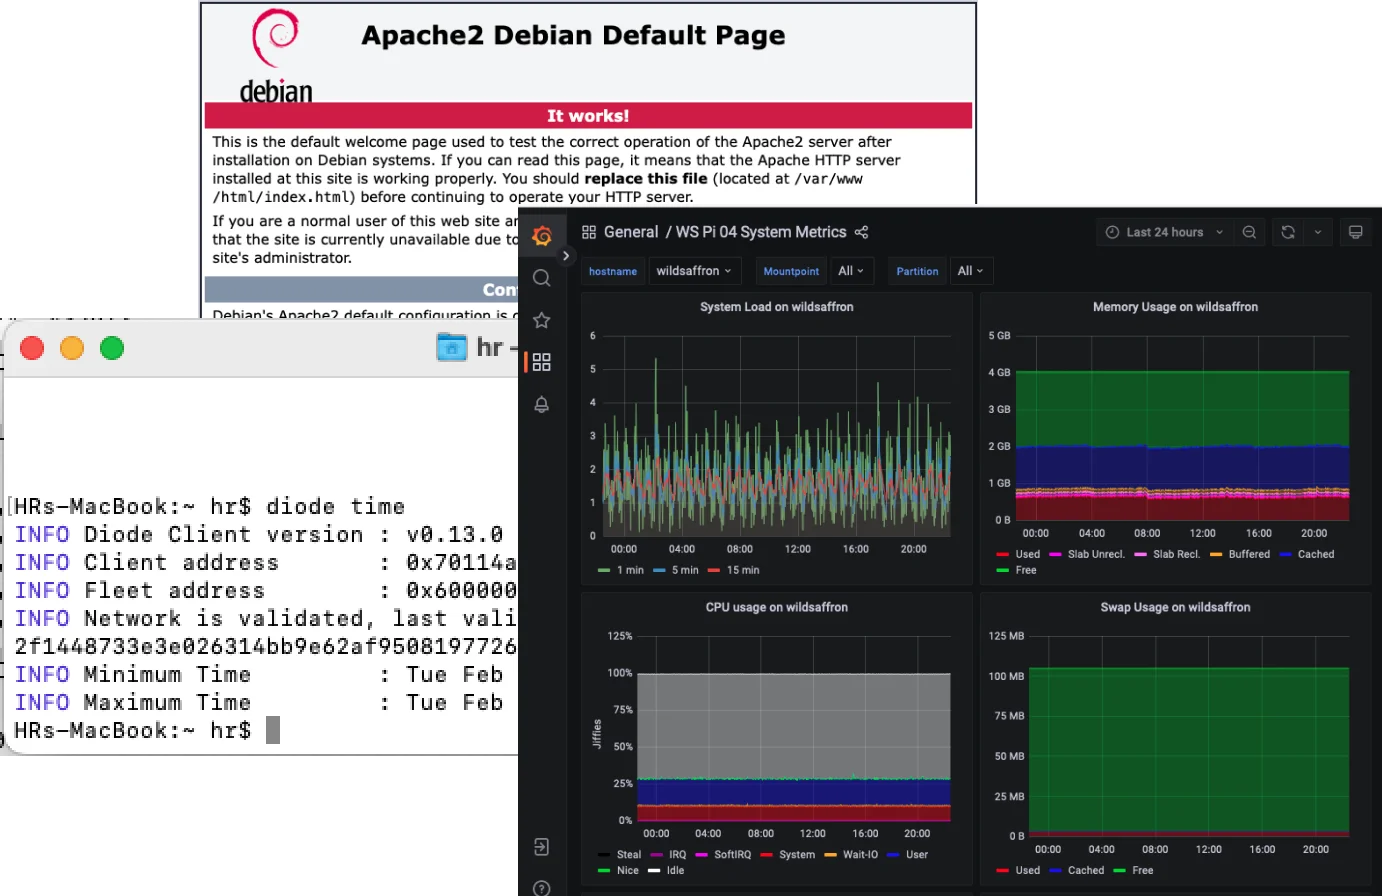
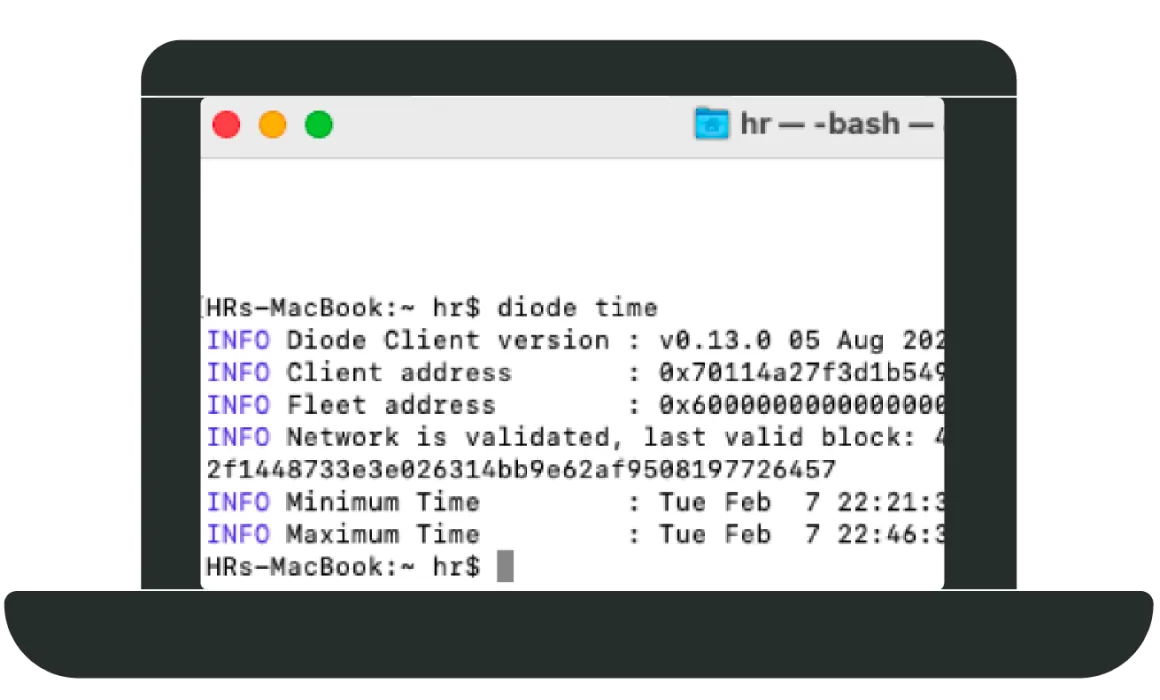
cli page update

diff --git a/_sass/blocks/story.scss b/_sass/blocks/story.scss
@@ -187,6 +187,20 @@
         }
       }
     }
+    &.cli-full {
+      @include media-breakpoint-up(xxl) {
+        margin-top: -120px;
+        margin-left: -40px;
+        margin-bottom: -40px;
+      }
+      img {
+        @include media-breakpoint-up(xxl) {
+          width: 625px;
+          max-width: none;
+          height: auto;
+        }
+      }
+    }
   }
 
   &__video {

diff --git a/cli.md b/cli.md
@@ -7,11 +7,11 @@ title: Diode CLI
 ### Hero
 hero:
   class: hero--rounded
-  heading: Diode <br>CLI.
-  subheading: Manage your IT/OT device access and assets.
+  heading: Manage assets with Diode CLI.
+  subheading: Access and manage servers and OT assets.
   buttons:
   - title: DOWNLOAD CLI
-    url: "/download/"
+    url: "/download/#cli"
   image: hero/cli.webp
 
 
@@ -22,31 +22,34 @@ story:
   content: |
     The Diode CLI makes your IT, OT, or IoT assets both smart and secure. Every CLI-enabled asset is globally accessible to authorized parties and is 256-bit E2EE secured.
   
-    The CLI uses less resources than a VPN, requires no managed server infrastructure (VPN cloud), and is more secure - it brings the power of the Diode Network to your edge devices.
+    The open source CLI uses less resources than a VPN, requires no managed server infrastructure (VPN cloud), and is more secure - it brings the power of the Diode Network to your edge devices.
   buttons:
   - title: See How The Network Works
     class: btn--blank
     url: "#"
   image:
-    src: story/cli.webp
-    alt: "Network"
+    src: story/cli-full.webp
+    alt: Diode CLI
+    class: cli-full
 
 
 ### Features
 features:
+  after:
+    src: story/world.svg
   list:
   - title: Globally accessible
     content: |
-      Every Diode client has a globally unique identifier that is used for security and routing. The Diode CLI “lights up” your device, making it accessible from anywhere in the world while securing it to only the resources you’ve authorized to access it. It becomes globally accessible while being more secure than a local network. 
+      Every Diode client has a globally unique identifier that is used for security and routing.The Diode CLI “lights up” your device, making it accessible from anywhere in the world while securing it to only the resources you’ve authorized to access it. It becomes globally accessible while being more secure than a local network. 
 
   - title: Use for
     content: |
       IoT/OT data, SSH, Websites, Server Admin
-  
+
       Connect, manage, collect, view, and administrate - everything you wish you could do with your IT and OT assets.
     buttons:
     - title: DOWNLOAD
-      url: "/download/"
+      url: "/download/#cli"
     - title: SCHEDULE A DEMO
       class: btn--blank btn--arrow
       url: "https://contactdiode.paperform.co/"
@@ -54,13 +57,13 @@ features:
 
   - title: Resource publication
     content: |
-      Whether your asset is publishing an SSH port to an explicit DevOps allow-list, an IoT API in a zero trust data fabric, or a website to the world, the CLI makes it easy. Publishing a resource with the CLI allows you to isolate the rest of the system, saving IT time and resources that would otherwise be spent on system maintenance.
+      Whether your asset is publishing an SSH port to an explicit DevOps allow-list, an IoT API in a zero trust data fabric, or a website to the world, the CLI makes it easy.Publishing a resource with the CLI allows you to isolate the rest of the system, saving IT time and resources that would otherwise be spent on system maintenance.
 
   -
 
   - title: Access management
     content: |
-      Any Diode CLI client can publish a resource in private, protected, or public mode. By using the protected mode, an ad hoc zero trust perimeter is created that contains the asset, and makes it easy to manage access to it on a group level. 
+      Any Diode CLI client can publish a resource in private, protected, or public mode. By using the protected mode, an ad hoc zero trust perimeter is created that contains the asset, and makes it easy to manage access to it on a group level.
 
 
 ### Box: Our solutions

diff --git a/solutions.md b/solutions.md
@@ -32,7 +32,7 @@ app:
   - title: Download
     url: "/download/#app"
   image:
-    src: story/app-new.webp
+    src: story/app.webp
     class: app
 
 
@@ -53,7 +53,7 @@ cli:
   - title: Find Out More
     url: "/solutions/cli/"
   image:
-    src: story/cli-new.webp
+    src: story/cli.webp
     class: cli
 
 
@@ -73,7 +73,7 @@ vault:
     url: "https://diodedemo.paperform.co/"
     target: _blank
   image:
-    src: story/vault-new.webp
+    src: story/vault.webp
     class: vault
 
 
@@ -92,7 +92,7 @@ network:
   - title: Find Out More
     url: "/solutions/network/"
   image:
-    src: story/network-new.webp
+    src: story/network.webp
     class: network
   mirrored: true
 
